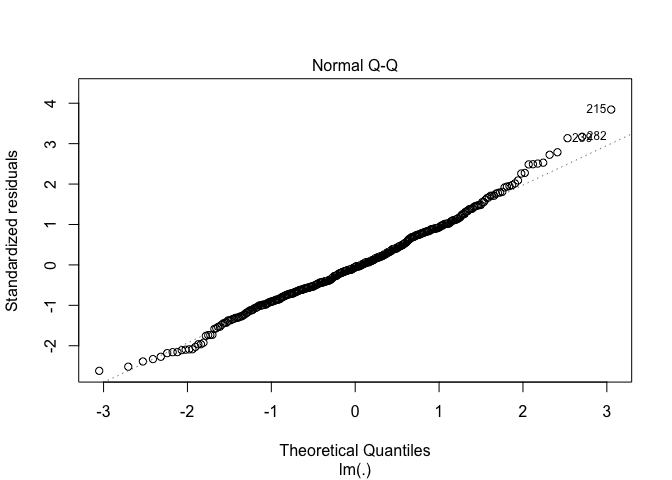
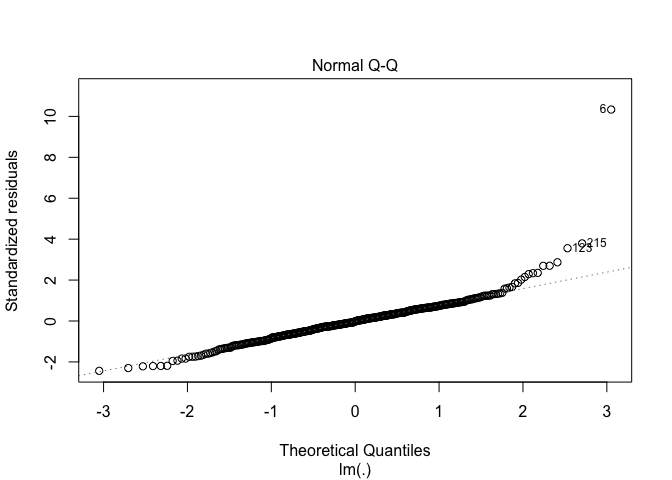
Adding results from discussed models. Models of interest are 13, 14 and 15.

diff --git a/p8130_final_project_BG.md b/p8130_final_project_BG.md
@@ -16,7 +16,7 @@ get_cor_by_var <- function(v_name) {
   cdi %>%
   map(~cor(as.numeric(.x), pull(cdi, v_name), method = "pearson")) %>%
   as_tibble() %>%
-  pivot_longer(id:pop_density,
+  pivot_longer(id:log_pop_density,
                names_to = "variables",
                values_to = "r") %>%
   mutate(
@@ -98,7 +98,12 @@ cdi <- read_csv(here::here("data", "cdi.csv")) %>%
          region = as.factor(region),
          region = fct_recode(region, "northeast" = "1", "north_central" = "2",
                              "south" = "3", "west" = "4"),
-         pop_density = pop/area)
+         pop_density = pop/area,
+         log_pop18 = log(pop18),
+         log_poverty = log(poverty),
+         log_totalinc = log(totalinc),
+         log_pcincome = log(pcincome),
+         log_pop_density = log(pop_density))
 ```
 
 Let’s calculate the Pearson’s correlation coefficient between every
@@ -108,27 +113,32 @@ variable in the data set and `CRM_1000`.
 get_cor_by_var("CRM_1000")
 ```
 
-| variables    |         r | sign |
-|:-------------|----------:|:-----|
-| CRM\_1000    | 1.0000000 | \+   |
-| crimes       | 0.5300430 | \+   |
-| pop\_density | 0.4804285 | \+   |
-| poverty      | 0.4718442 | \+   |
-| beds         | 0.3915167 | \+   |
-| id           | 0.3756659 | \-   |
-| region       | 0.3427584 | \+   |
-| docs         | 0.3075291 | \+   |
-| pop          | 0.2800992 | \+   |
-| totalinc     | 0.2281557 | \+   |
-| hsgrad       | 0.2264129 | \-   |
-| pop18        | 0.1905688 | \+   |
-| pcincome     | 0.0802442 | \-   |
-| pop65        | 0.0665333 | \-   |
-| area         | 0.0429484 | \+   |
-| unemp        | 0.0418466 | \+   |
-| bagrad       | 0.0383046 | \+   |
-| cty          |        NA | NA   |
-| state        |        NA | NA   |
+| variables         |         r | sign |
+|:------------------|----------:|:-----|
+| CRM\_1000         | 1.0000000 | \+   |
+| crimes            | 0.5300430 | \+   |
+| log\_poverty      | 0.4823623 | \+   |
+| pop\_density      | 0.4804285 | \+   |
+| poverty           | 0.4718442 | \+   |
+| beds              | 0.3915167 | \+   |
+| id                | 0.3756659 | \-   |
+| region            | 0.3427584 | \+   |
+| log\_pop\_density | 0.3367361 | \+   |
+| log\_totalinc     | 0.3273042 | \+   |
+| docs              | 0.3075291 | \+   |
+| pop               | 0.2800992 | \+   |
+| totalinc          | 0.2281557 | \+   |
+| hsgrad            | 0.2264129 | \-   |
+| log\_pop18        | 0.2039079 | \+   |
+| pop18             | 0.1905688 | \+   |
+| pcincome          | 0.0802442 | \-   |
+| log\_pcincome     | 0.0695287 | \-   |
+| pop65             | 0.0665333 | \-   |
+| area              | 0.0429484 | \+   |
+| unemp             | 0.0418466 | \+   |
+| bagrad            | 0.0383046 | \+   |
+| cty               |        NA | NA   |
+| state             |        NA | NA   |
 
 Now, let’s define models of interest.
 
@@ -150,6 +160,10 @@ fit10 <- str_c("CRM_1000 ~ pop_density + region + poverty + pcincome + hsgrad + 
               "poverty*pop_density + region*pcincome")
 fit11 <- str_c("CRM_1000 ~ pop_density + region + poverty + pcincome + hsgrad +",
                "poverty*pop_density")
+fit12 <- "CRM_1000 ~ region + log_pop18 + log_poverty + log_pcincome + log_pop_density"
+fit13 <- "CRM_1000 ~ region + log_pop_density + log_totalinc + log_pop18 + log_poverty"
+fit14 <- "CRM_1000 ~ log_pop_density + region + log_poverty + log_pcincome"
+fit15 <- "CRM_1000 ~ log_pop_density + region + log_poverty + log_totalinc"
 
 model_list <-  
   list(
@@ -163,7 +177,11 @@ model_list <-
     f8 = fit8,
     f9 = fit9,
     f10 = fit10,
-    f11 = fit11
+    f11 = fit11,
+    f12 = fit12,
+    f13 = fit13,
+    f14 = fit14,
+    f15 = fit15
   )
 ```
 
@@ -173,7 +191,7 @@ Here is each model’s adjusted R-squared value.
 # Get each model's adjusted r-squared
 map(model_list, get_mod_adj_r_squared) %>%
   as_tibble() %>%
-  pivot_longer(f1:f11,
+  pivot_longer(f1:f15,
                names_to = "model",
                values_to = "adj_r_squared") %>%
   arrange(desc(adj_r_squared)) %>%
@@ -188,9 +206,13 @@ map(model_list, get_mod_adj_r_squared) %>%
 | f1    |       0.5618281 |
 | f8    |       0.5612370 |
 | f7    |       0.5416761 |
+| f13   |       0.5370508 |
+| f12   |       0.5355091 |
 | f6    |       0.5321478 |
 | f5    |       0.5318993 |
 | f4    |       0.5316251 |
+| f15   |       0.5314421 |
+| f14   |       0.5283651 |
 | f3    |       0.5205424 |
 | f2    |       0.3998009 |
 
@@ -200,7 +222,7 @@ Here is each model’s root mean squared error.
 # Perform 5-fold cross validation for each model
 map(model_list, get_cv_rmse) %>%
   as_tibble() %>%
-  pivot_longer(f1:f11,
+  pivot_longer(f1:f15,
                names_to = "model",
                values_to = "RMSE") %>%
   arrange(RMSE) %>%
@@ -209,35 +231,39 @@ map(model_list, get_cv_rmse) %>%
 
 | model |     RMSE |
 |:------|---------:|
-| f9    | 17.85671 |
-| f1    | 18.43948 |
-| f10   | 18.49985 |
-| f11   | 18.58657 |
-| f8    | 18.71275 |
-| f3    | 19.48425 |
-| f7    | 19.51368 |
-| f5    | 19.61322 |
-| f4    | 19.63314 |
-| f6    | 19.73872 |
-| f2    | 21.46336 |
+| f11   | 18.13721 |
+| f8    | 18.20924 |
+| f1    | 18.21933 |
+| f10   | 18.28091 |
+| f14   | 18.39217 |
+| f15   | 18.68556 |
+| f13   | 18.68741 |
+| f12   | 18.79136 |
+| f5    | 18.91382 |
+| f6    | 19.07404 |
+| f7    | 19.28426 |
+| f9    | 19.63107 |
+| f4    | 19.63921 |
+| f3    | 19.73910 |
+| f2    | 21.69069 |
 
 Further, we can plot the model residuals as a function of the model
 predictions.
 
 ``` r
-plot_model_residuals(fit1)
+plot_model_residuals(fit13)
 ```
 
 ![](p8130_final_project_BG_files/figure-gfm/unnamed-chunk-7-1.png)<!-- -->
 
 ``` r
-plot_model_residuals(fit8)
+plot_model_residuals(fit14)
 ```
 
 ![](p8130_final_project_BG_files/figure-gfm/unnamed-chunk-8-1.png)<!-- -->
 
 ``` r
-plot_model_residuals(fit11)
+plot_model_residuals(fit15)
 ```
 
 ![](p8130_final_project_BG_files/figure-gfm/unnamed-chunk-9-1.png)<!-- -->
@@ -245,19 +271,19 @@ plot_model_residuals(fit11)
 QQ plots
 
 ``` r
-plot_mod_qq(fit1)
+plot_mod_qq(fit13)
 ```
 
 ![](p8130_final_project_BG_files/figure-gfm/unnamed-chunk-10-1.png)<!-- -->
 
 ``` r
-plot_mod_qq(fit8)
+plot_mod_qq(fit14)
 ```
 
 ![](p8130_final_project_BG_files/figure-gfm/unnamed-chunk-11-1.png)<!-- -->
 
 ``` r
-plot_mod_qq(fit11)
+plot_mod_qq(fit15)
 ```
 
 ![](p8130_final_project_BG_files/figure-gfm/unnamed-chunk-12-1.png)<!-- -->
